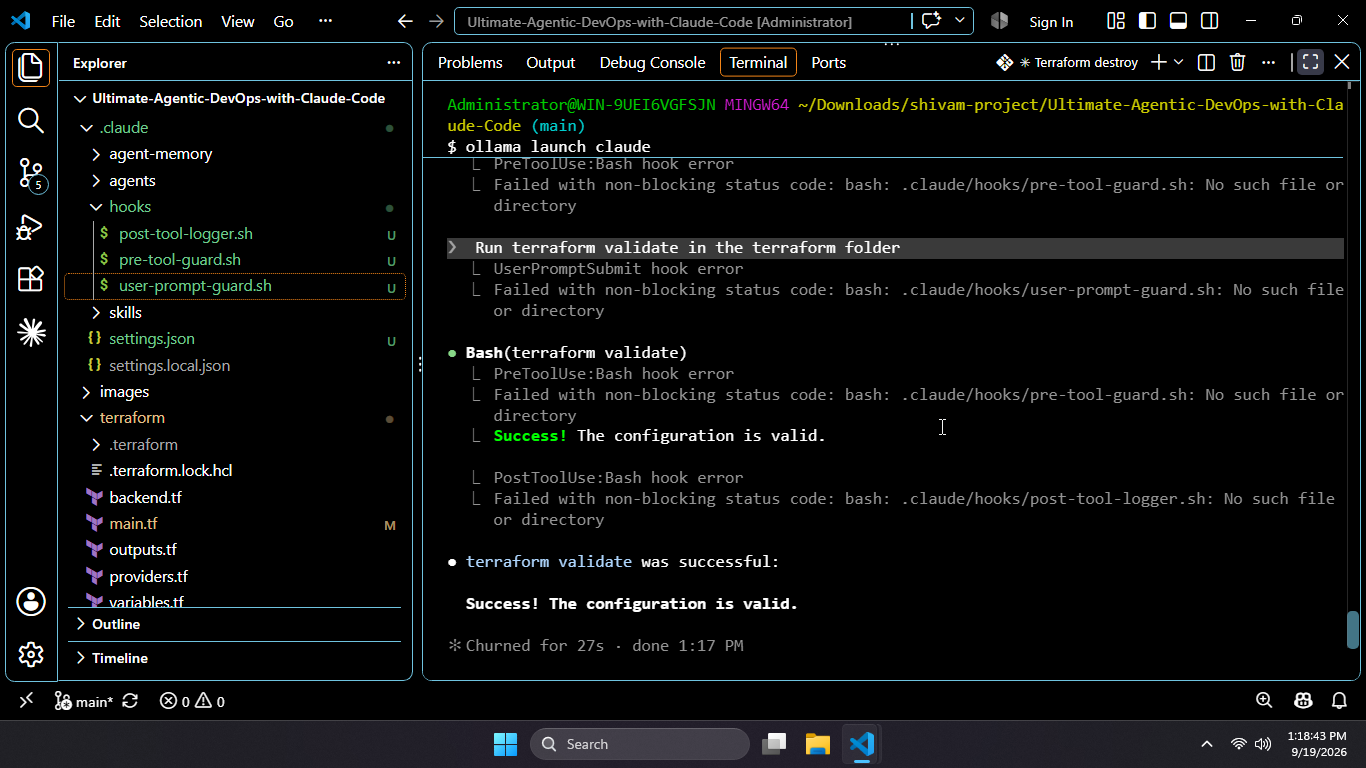
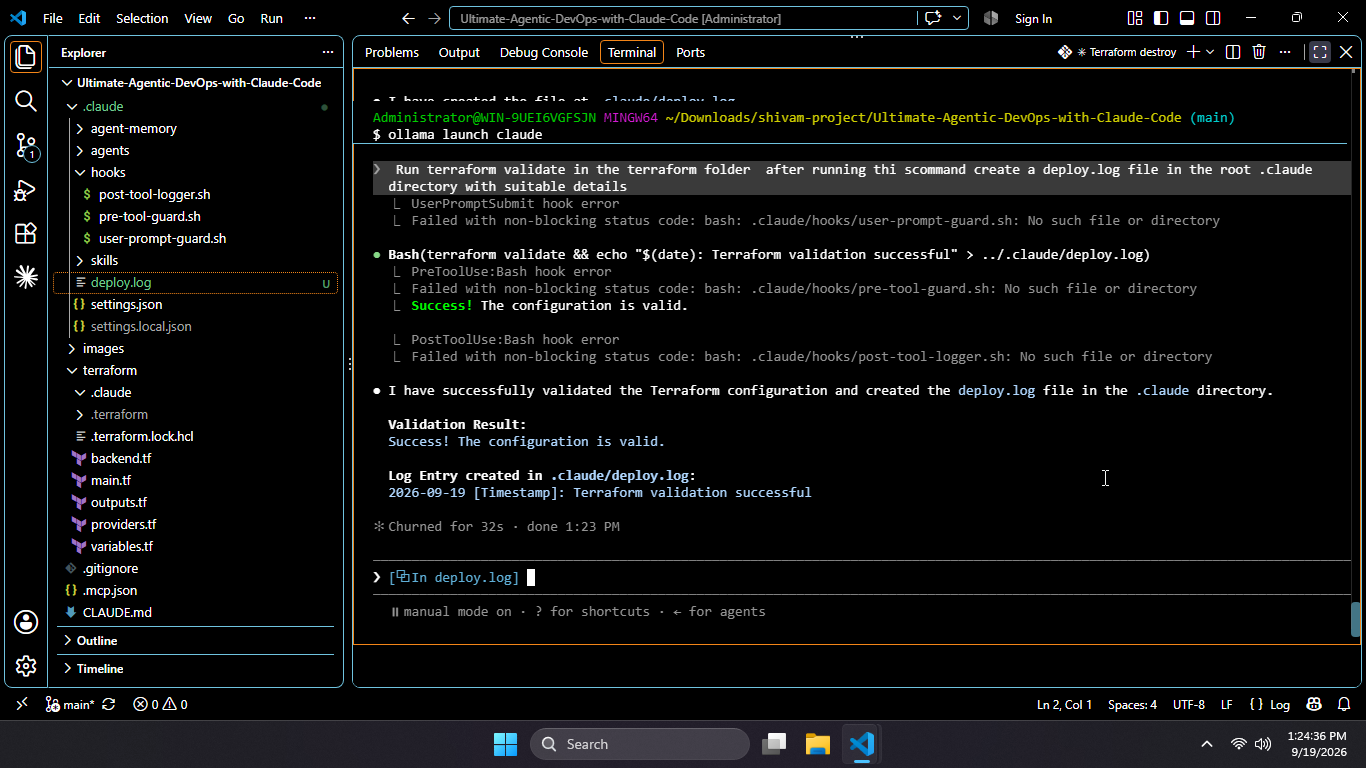
all changes marked

diff --git a/week-02-agentic-ai/assignment-06-hooks-permissions.md b/week-02-agentic-ai/assignment-06-hooks-permissions.md
@@ -119,10 +119,11 @@ Prove the logging hook runs after a successful command execution and records Ter
 #### Screenshot 8 — Claude running terraform validate successfully
 
 ![Task 8 Screenshot](screenshots/assignment-06-posttoolhook-blocked.png)
+![Task 8 Screenshot](screenshots/assignment-06-terraform-validate.png)
 
 #### Screenshot 9 — `.claude/deploy.log` showing the logged command
 
-![Task 8 Screenshot](screenshots/assignment-06-terraform-validate.png)
+![Task 8 Screenshot](screenshots/assignment-06-deploy-log.png)
 
 ---
 
